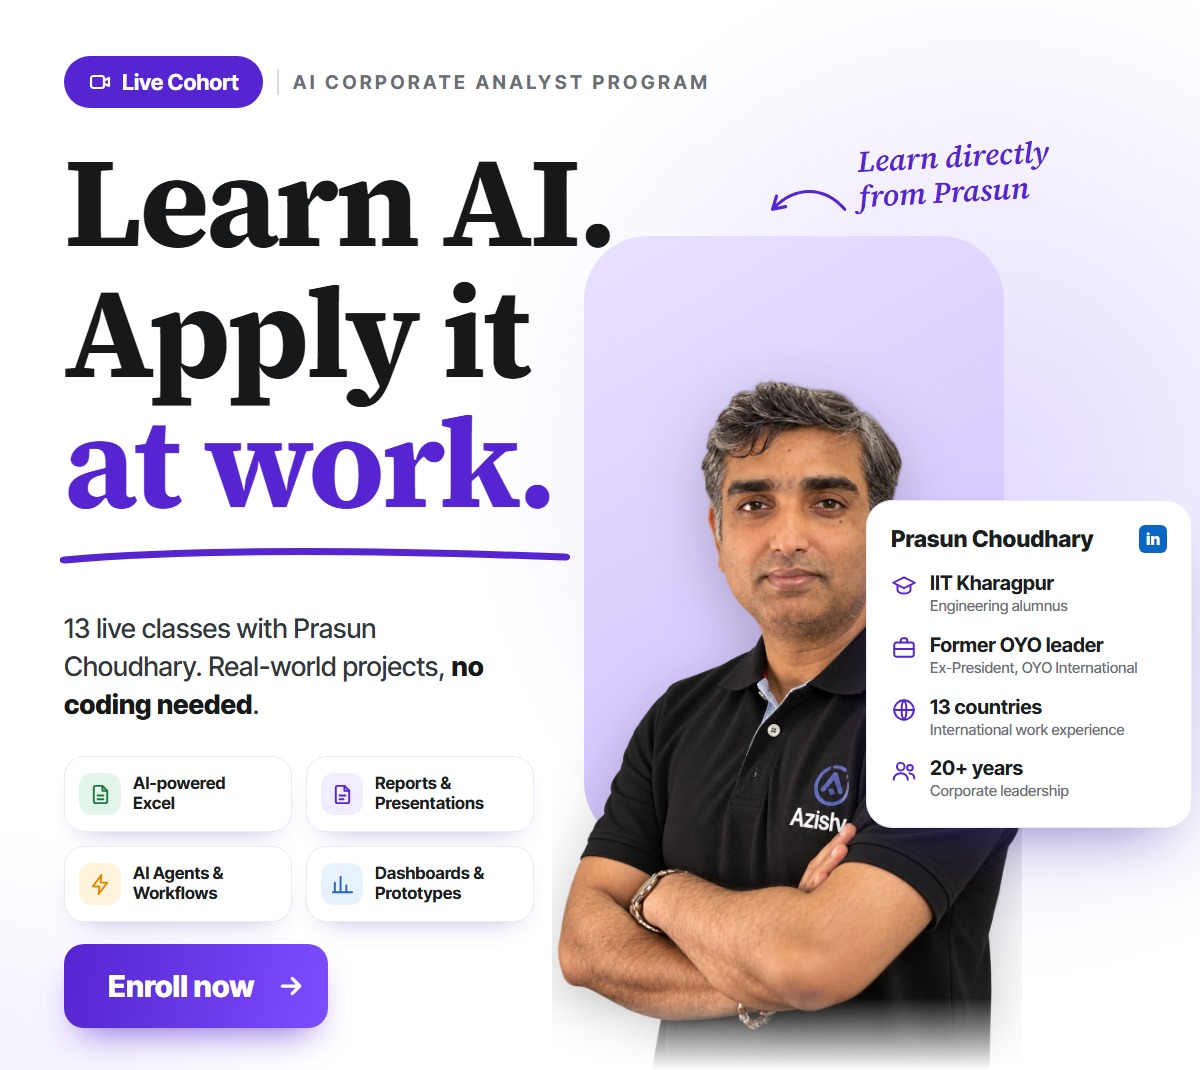
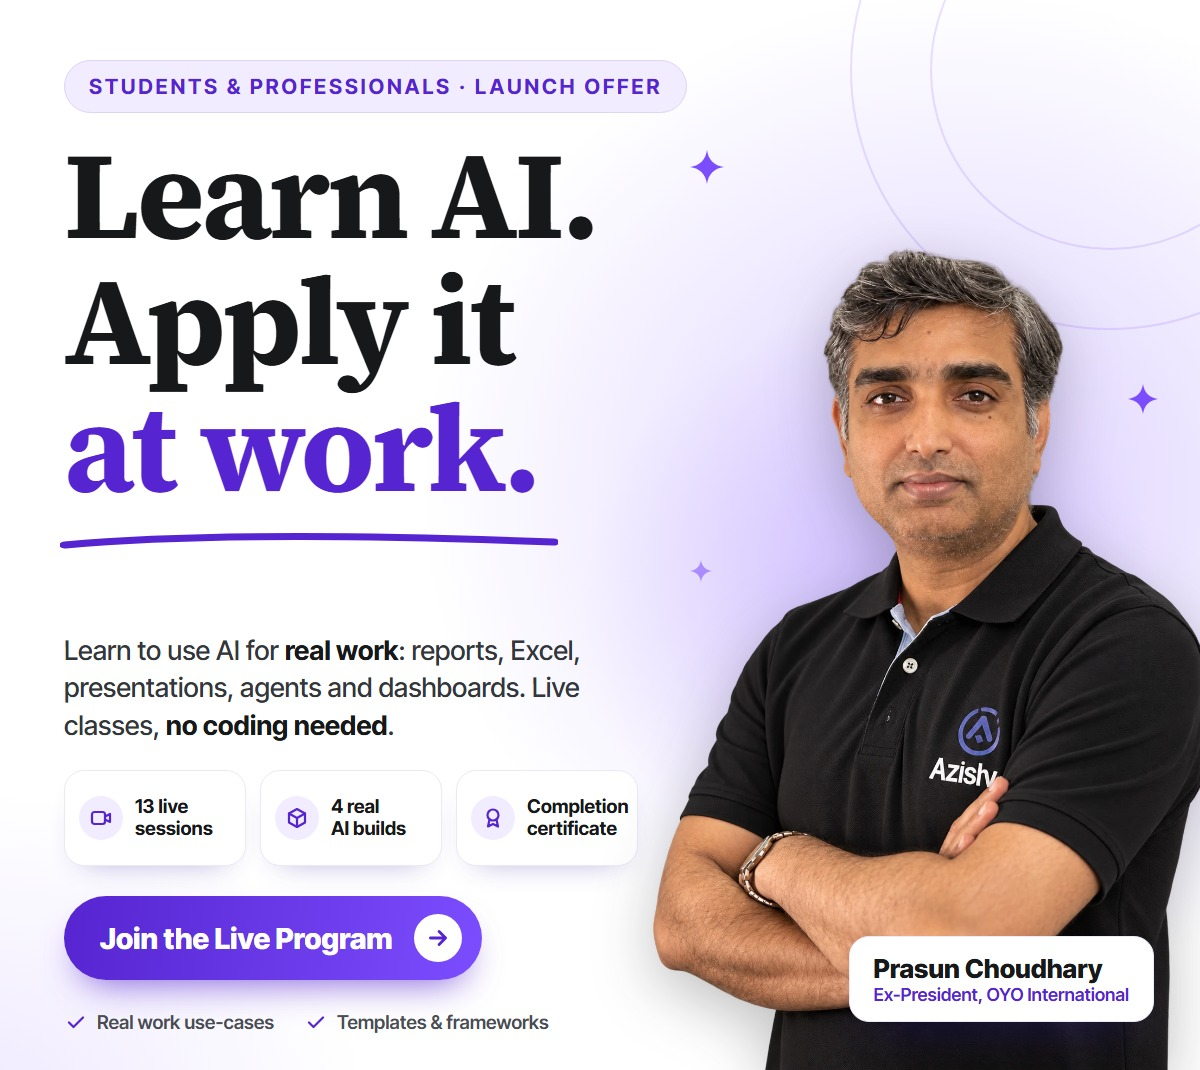
Cashfree combined card: corporate-card layout in the new light theme

diff --git a/cashfree/combined-card.html b/cashfree/combined-card.html
@@ -3,94 +3,75 @@
 <head>
 <meta charset="utf-8">
 <title>Cashfree card, combined</title>
-<link rel="stylesheet" href="https://fonts.googleapis.com/css2?family=Inter+Tight:wght@500;600;700;800&family=Source+Serif+4:ital,wght@0,700;1,600&display=swap">
+<link rel="stylesheet" href="https://fonts.googleapis.com/css2?family=Inter+Tight:wght@500;600;700;800&family=Source+Serif+4:wght@700&display=swap">
 <style>
   *{box-sizing:border-box;margin:0;padding:0}
   html,body{width:1200px;height:1070px;overflow:hidden;background:#fff}
-  .card{position:relative;width:1200px;height:1070px;overflow:hidden;font-family:"Inter Tight",system-ui,sans-serif;color:#1c1d1f;
+  .card{position:relative;width:1200px;height:1070px;overflow:hidden;font-family:"Inter Tight",system-ui,sans-serif;color:#17181a;
     background:
-      radial-gradient(760px 760px at 82% 44%, rgba(124,77,255,.20) 0%, rgba(124,77,255,0) 68%),
-      radial-gradient(520px 420px at -4% 104%, rgba(124,77,255,.10) 0%, rgba(124,77,255,0) 70%),
+      radial-gradient(820px 760px at 80% 46%, rgba(124,77,255,.26) 0%, rgba(124,77,255,0) 66%),
+      radial-gradient(560px 460px at -2% 104%, rgba(124,77,255,.12) 0%, rgba(124,77,255,0) 70%),
       #fff;}
-  .live{position:absolute;left:64px;top:56px;display:flex;align-items:center;gap:14px}
-  .live .p{display:flex;align-items:center;gap:10px;padding:13px 24px;border-radius:999px;background:#5624d0;color:#fff;font-size:22px;font-weight:700}
-  .live .p svg{width:24px;height:24px;stroke:#fff;fill:none;stroke-width:2.2;stroke-linecap:round;stroke-linejoin:round}
-  .live .bar{width:2px;height:26px;background:#dcdbe6}
-  .live .e{font-size:19px;font-weight:700;letter-spacing:.18em;text-transform:uppercase;color:#6b6e75}
-  h1{position:absolute;left:64px;top:136px;font-family:"Source Serif 4",Georgia,serif;font-weight:700;font-size:128px;line-height:1.02;letter-spacing:-.025em;color:#17181a}
+  .ring{position:absolute;border-radius:50%;border:2px solid rgba(124,77,255,.16)}
+  .pill{position:absolute;left:64px;top:60px;padding:13px 24px;border-radius:999px;font-size:21px;font-weight:700;letter-spacing:.13em;text-transform:uppercase;
+    background:#f1ecff;color:#5624d0;border:1.5px solid #ddd3fb}
+  h1{position:absolute;left:64px;top:132px;font-family:"Source Serif 4",Georgia,serif;font-weight:700;font-size:124px;line-height:1.02;letter-spacing:-.025em;color:#17181a}
   h1 .acc{color:#5624d0;position:relative;white-space:nowrap}
-  h1 .acc svg{position:absolute;left:-4px;bottom:-20px;width:104%;height:26px}
-  .sub{position:absolute;left:64px;top:610px;width:440px;font-size:27px;line-height:1.4;font-weight:500;color:#33363b}
-  .sub b{font-weight:800;color:#17181a}
-  .feats{position:absolute;left:64px;top:756px;width:470px;display:grid;grid-template-columns:1fr 1fr;gap:14px}
-  .f{display:flex;align-items:center;gap:12px;height:76px;padding:0 14px;border-radius:20px;background:#fff;border:1.5px solid #ebe8f7;box-shadow:0 14px 30px -20px rgba(60,40,160,.45)}
-  .f .ic{flex:none;width:42px;height:42px;border-radius:13px;display:grid;place-items:center}
-  .f .ic svg{width:23px;height:23px;fill:none;stroke-width:2;stroke-linecap:round;stroke-linejoin:round}
-  .f span{font-size:17px;line-height:1.15;font-weight:700}
-  .g{background:#e3f5ea}.g svg{stroke:#1d7a45}
-  .v{background:#f1ecff}.v svg{stroke:#5624d0}
-  .o{background:#fff3dc}.o svg{stroke:#e08a00}
-  .b{background:#e8f1ff}.b svg{stroke:#2563c9}
-  .btn{position:absolute;left:64px;top:944px;height:84px;padding:0 22px 0 44px;border-radius:20px;background:linear-gradient(100deg,#5624d0,#7c4dff);color:#fff;display:flex;align-items:center;gap:22px;
-    font-size:30px;font-weight:800;box-shadow:0 18px 36px -16px rgba(86,36,208,.75)}
-  .btn svg{width:30px;height:30px;stroke:#fff;fill:none;stroke-width:2.6;stroke-linecap:round;stroke-linejoin:round}
-    .blob{position:absolute;right:196px;top:236px;width:420px;height:610px;border-radius:64px;background:linear-gradient(150deg,#e9e1ff,#cdbcff)}
-  .person{position:absolute;right:178px;bottom:0;width:470px;height:720px;object-fit:contain;object-position:bottom;filter:drop-shadow(0 18px 30px rgba(28,29,31,.25));
-    -webkit-mask-image:linear-gradient(to bottom,#000 90%,transparent 100%);mask-image:linear-gradient(to bottom,#000 90%,transparent 100%)}
-  .note{position:absolute;right:150px;top:140px;display:flex;align-items:flex-start;gap:8px;color:#5624d0}
-  .note svg{width:84px;height:56px;margin-top:36px}
-  .note p{font-family:"Source Serif 4",Georgia,serif;font-style:italic;font-weight:600;font-size:30px;line-height:1.15;transform:rotate(-3deg)}
-  .cred{position:absolute;right:8px;top:500px;width:326px;background:#fff;border-radius:26px;padding:24px 24px 26px;border:1.5px solid #ebe8f7;box-shadow:0 30px 60px -30px rgba(60,40,160,.6)}
-  .cred .h{display:flex;align-items:center;justify-content:space-between;margin-bottom:18px}
-  .cred .h b{font-size:23px;font-weight:800}
-  .cred .in{width:28px;height:28px;border-radius:6px;background:#0a66c2;color:#fff;font-size:16px;font-weight:800;display:grid;place-items:center}
-  .cred ul{list-style:none;display:flex;flex-direction:column;gap:17px}
-  .cred li{display:flex;gap:13px;align-items:flex-start}
-  .cred li svg{flex:none;width:26px;height:26px;margin-top:2px;stroke:#5624d0;fill:none;stroke-width:1.8;stroke-linecap:round;stroke-linejoin:round}
-  .cred li b{display:block;font-size:20px;font-weight:700;line-height:1.2}
-  .cred li span{display:block;font-size:15px;color:#6b6e75;line-height:1.25;margin-top:2px}
+  h1 .acc svg{position:absolute;left:-4px;right:0;bottom:-22px;width:105%;height:26px}
+  .sub{position:absolute;left:64px;top:632px;width:590px;font-size:27px;line-height:1.38;font-weight:500;color:#33363b}
+  .sub b{font-weight:700;color:#17181a}
+  .chips{position:absolute;left:64px;top:770px;display:flex;gap:14px}
+  .chip{width:182px;height:96px;border-radius:20px;background:#fff;border:1.5px solid #ebe8f7;box-shadow:0 14px 30px -20px rgba(60,40,160,.45);display:flex;align-items:center;gap:12px;padding:0 14px}
+  .chip .ic{flex:none;width:44px;height:44px;border-radius:50%;background:#f1ecff;display:grid;place-items:center}
+  .chip .ic svg{width:24px;height:24px;stroke:#5624d0;fill:none;stroke-width:2.2;stroke-linecap:round;stroke-linejoin:round}
+  .chip span{font-size:19px;line-height:1.15;font-weight:700;color:#17181a}
+  .btn{position:absolute;left:64px;top:896px;height:84px;padding:0 20px 0 36px;border-radius:999px;background:linear-gradient(100deg,#5624d0,#7c4dff);color:#fff;display:flex;align-items:center;gap:22px;
+    font-size:29px;font-weight:800;box-shadow:0 18px 36px -16px rgba(86,36,208,.75)}
+  .btn i{width:48px;height:48px;border-radius:50%;background:#fff;display:grid;place-items:center}
+  .btn i svg{width:26px;height:26px;stroke:#5624d0;fill:none;stroke-width:2.6;stroke-linecap:round;stroke-linejoin:round}
+  .foot{position:absolute;left:64px;top:1010px;display:flex;gap:30px;font-size:19px;font-weight:600;color:#4a4d54}
+  .foot div{display:flex;align-items:center;gap:9px}
+  .foot svg{width:24px;height:24px;stroke:#5624d0;fill:none;stroke-width:2.2;stroke-linecap:round;stroke-linejoin:round}
+  .glow{position:absolute;right:30px;top:300px;width:600px;height:600px;border-radius:50%;background:radial-gradient(circle,rgba(124,77,255,.20) 0%,rgba(124,77,255,0) 68%)}
+  .person{position:absolute;right:-6px;bottom:0;width:560px;height:826px;object-fit:contain;object-position:bottom;filter:drop-shadow(0 18px 30px rgba(28,29,31,.28))}
+  .name{position:absolute;right:46px;bottom:48px;background:#fff;border:1.5px solid #ebe8f7;border-radius:20px;padding:16px 24px;box-shadow:0 24px 50px -28px rgba(60,40,160,.6)}
+  .name b{display:block;font-size:26px;font-weight:800;color:#17181a}
+  .name span{font-size:18px;font-weight:600;color:#5624d0}
+  .star{position:absolute;fill:#7c4dff}
 </style>
 </head>
 <body>
 <div class="card">
-  <div class="live">
-    <div class="p"><svg viewBox="0 0 24 24"><rect x="3" y="6" width="13" height="12" rx="2.5"/><path d="M16 10.5 21 8v8l-5-2.5"/></svg>Live Cohort</div>
-    <div class="bar"></div>
-    <div class="e">AI Corporate Analyst Program</div>
-  </div>
+  <div class="ring" style="width:520px;height:520px;right:-170px;top:-190px"></div>
+  <div class="ring" style="width:360px;height:360px;right:-90px;top:-110px"></div>
+  <div class="glow"></div>
+
+  <div class="pill">Students &amp; professionals &middot; Launch offer</div>
 
   <h1>Learn AI.<br>Apply it<br><span class="acc">at work.<svg viewBox="0 0 300 26" preserveAspectRatio="none"><path d="M3 16 C70 6, 170 5, 297 13" stroke="#5624d0" stroke-width="7" fill="none" stroke-linecap="round"/></svg></span></h1>
 
-  <p class="sub">13 live classes with Prasun Choudhary. Real-world projects, <b>no coding needed</b>.</p>
+  <p class="sub">Learn to use AI for <b>real work</b>: reports, Excel, presentations, agents and dashboards. Live classes, <b>no coding needed</b>.</p>
 
-  <div class="blob"></div>
+  <div class="chips">
+    <div class="chip"><div class="ic"><svg viewBox="0 0 24 24"><rect x="3" y="6" width="13" height="12" rx="2.5"/><path d="M16 10.5 21 8v8l-5-2.5"/></svg></div><span>13 live<br>sessions</span></div>
+    <div class="chip"><div class="ic"><svg viewBox="0 0 24 24"><path d="M12 3 20 7.5v9L12 21 4 16.5v-9z"/><path d="M12 12 20 7.5M12 12 4 7.5M12 12v9"/></svg></div><span>4 real<br>AI builds</span></div>
+    <div class="chip"><div class="ic"><svg viewBox="0 0 24 24"><circle cx="12" cy="9" r="5.5"/><path d="m8.5 13.5-1.5 7 5-2.5 5 2.5-1.5-7"/></svg></div><span>Completion<br>certificate</span></div>
+  </div>
+
+  <div class="btn">Join the Live Program <i><svg viewBox="0 0 24 24"><path d="M5 12h14M13 6l6 6-6 6"/></svg></i></div>
+
+  <div class="foot">
+    <div><svg viewBox="0 0 24 24"><path d="m5 12.5 4.5 4.5L19 7.5"/></svg>Real work use-cases</div>
+    <div><svg viewBox="0 0 24 24"><path d="m5 12.5 4.5 4.5L19 7.5"/></svg>Templates &amp; frameworks</div>
+  </div>
+
   <img class="person" src="../public/faculty/prasun-cutout.webp" alt="">
 
-  <div class="note">
-    <svg viewBox="0 0 64 40"><path d="M60 24 C 44 6, 22 6, 5 24 M5 24 L 15 22 M5 24 L 8 14" fill="none" stroke="currentColor" stroke-width="2.4" stroke-linecap="round" stroke-linejoin="round"/></svg>
-    <p>Learn directly<br>from Prasun</p>
-  </div>
+  <div class="name"><b>Prasun Choudhary</b><span>Ex-President, OYO International</span></div>
 
-  <div class="cred">
-    <div class="h"><b>Prasun Choudhary</b><div class="in">in</div></div>
-    <ul>
-      <li><svg viewBox="0 0 24 24"><path d="M2 9l10-5 10 5-10 5z"/><path d="M6 11.5V16c0 1.5 3 3 6 3s6-1.5 6-3v-4.5"/></svg><div><b>IIT Kharagpur</b><span>Engineering alumnus</span></div></li>
-      <li><svg viewBox="0 0 24 24"><rect x="3" y="7" width="18" height="13" rx="2"/><path d="M9 7V5a2 2 0 0 1 2-2h2a2 2 0 0 1 2 2v2M3 13h18"/></svg><div><b>Former OYO leader</b><span>Ex-President, OYO International</span></div></li>
-      <li><svg viewBox="0 0 24 24"><circle cx="12" cy="12" r="9"/><path d="M3 12h18M12 3c3 3 3 15 0 18M12 3c-3 3-3 15 0 18"/></svg><div><b>13 countries</b><span>International work experience</span></div></li>
-      <li><svg viewBox="0 0 24 24"><circle cx="9" cy="8" r="3.5"/><path d="M2.5 20c0-3.6 2.9-6 6.5-6s6.5 2.4 6.5 6"/><circle cx="17.5" cy="9" r="2.6"/><path d="M17 14.3c2.9 0 4.5 2 4.5 4.7"/></svg><div><b>20+ years</b><span>Corporate leadership</span></div></li>
-    </ul>
-  </div>
-
-  <div class="feats">
-    <div class="f"><div class="ic g"><svg viewBox="0 0 24 24"><path d="M14 3H7a2 2 0 0 0-2 2v14a2 2 0 0 0 2 2h10a2 2 0 0 0 2-2V8z"/><path d="M14 3v5h5M9 13h6M9 17h6"/></svg></div><span>AI-powered<br>Excel</span></div>
-    <div class="f"><div class="ic v"><svg viewBox="0 0 24 24"><path d="M14 3H7a2 2 0 0 0-2 2v14a2 2 0 0 0 2 2h10a2 2 0 0 0 2-2V8z"/><path d="M14 3v5h5M9 13h6M9 17h4"/></svg></div><span>Reports &amp;<br>Presentations</span></div>
-    <div class="f"><div class="ic o"><svg viewBox="0 0 24 24"><path d="M13 2 4 14h7l-1 8 9-12h-7z"/></svg></div><span>AI Agents &amp;<br>Workflows</span></div>
-    <div class="f"><div class="ic b"><svg viewBox="0 0 24 24"><path d="M4 20V10M10 20V4M16 20v-7M22 20H2"/></svg></div><span>Dashboards &amp;<br>Prototypes</span></div>
-  </div>
-
-  <div class="btn">Enroll now <svg viewBox="0 0 24 24"><path d="M5 12h14M13 6l6 6-6 6"/></svg></div>
+  <svg class="star" style="left:690px;top:150px" width="34" height="34" viewBox="0 0 24 24"><path d="M12 0c1 7 5 11 12 12-7 1-11 5-12 12-1-7-5-11-12-12 7-1 11-5 12-12z"/></svg>
+  <svg class="star" style="left:690px;top:560px;opacity:.55" width="22" height="22" viewBox="0 0 24 24"><path d="M12 0c1 7 5 11 12 12-7 1-11 5-12 12-1-7-5-11-12-12 7-1 11-5 12-12z"/></svg>
+  <svg class="star" style="left:1128px;top:384px" width="30" height="30" viewBox="0 0 24 24"><path d="M12 0c1 7 5 11 12 12-7 1-11 5-12 12-1-7-5-11-12-12 7-1 11-5 12-12z"/></svg>
 </div>
 </body>
 </html>
-
-
